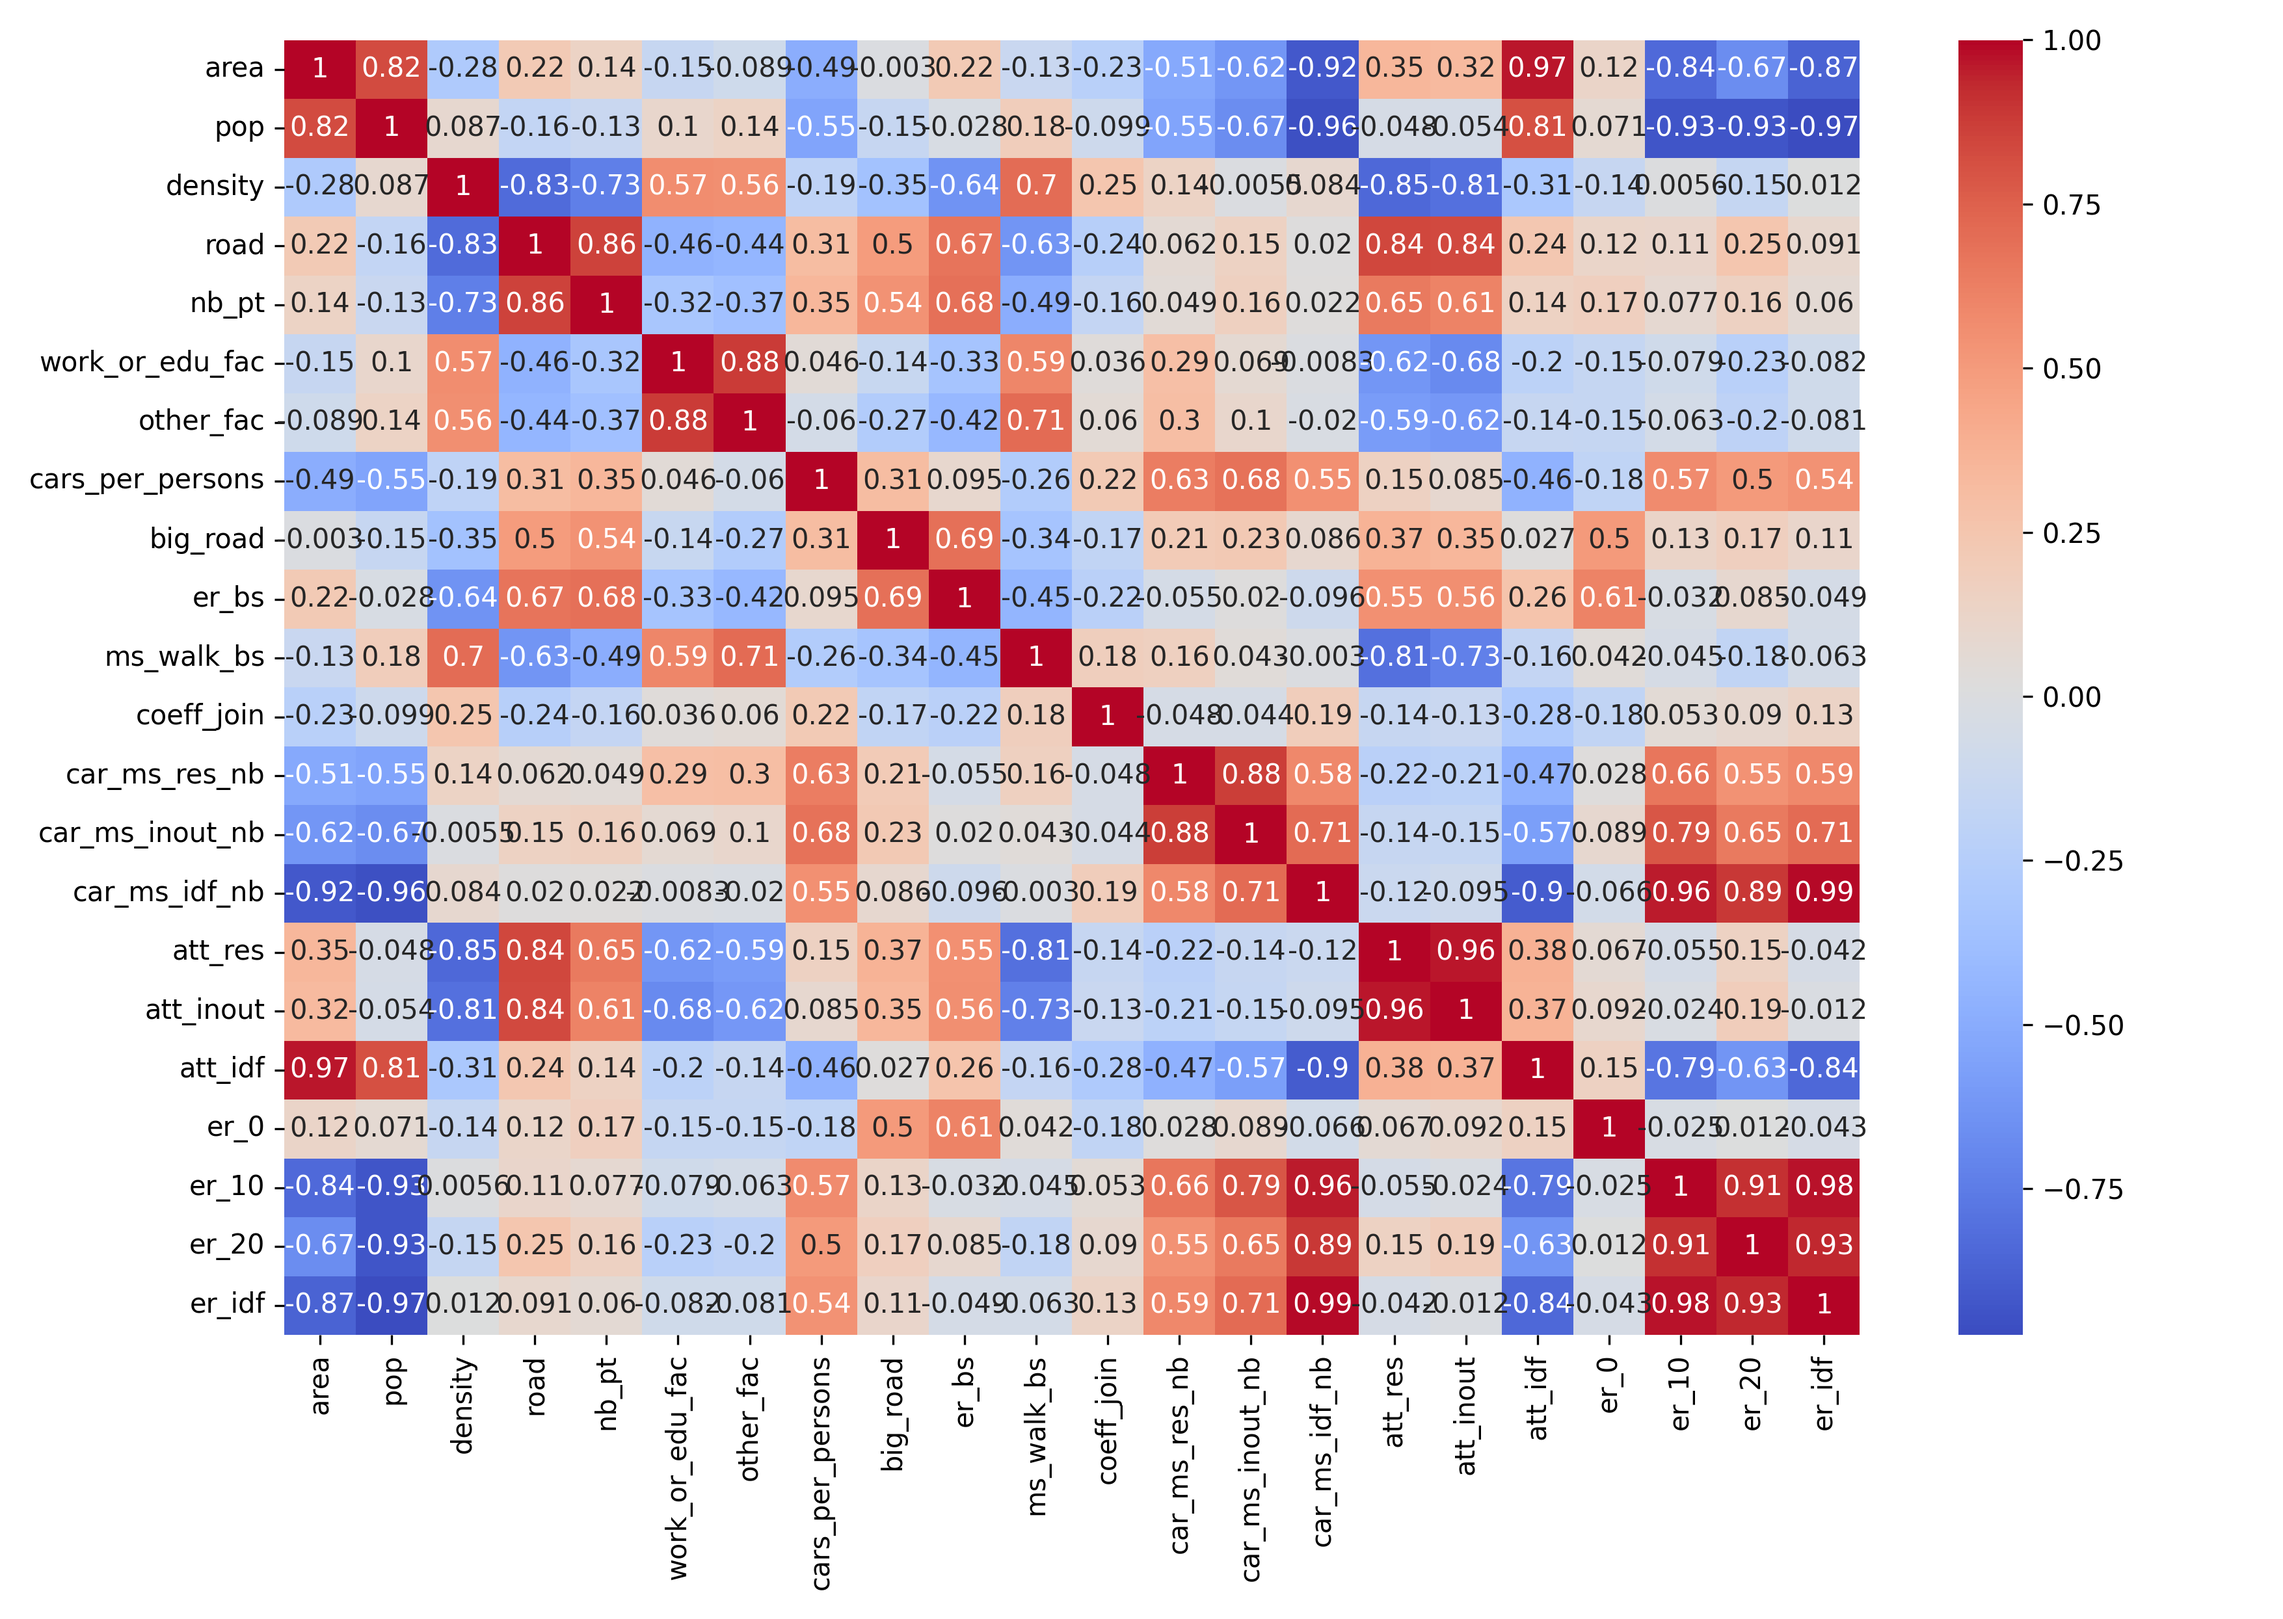
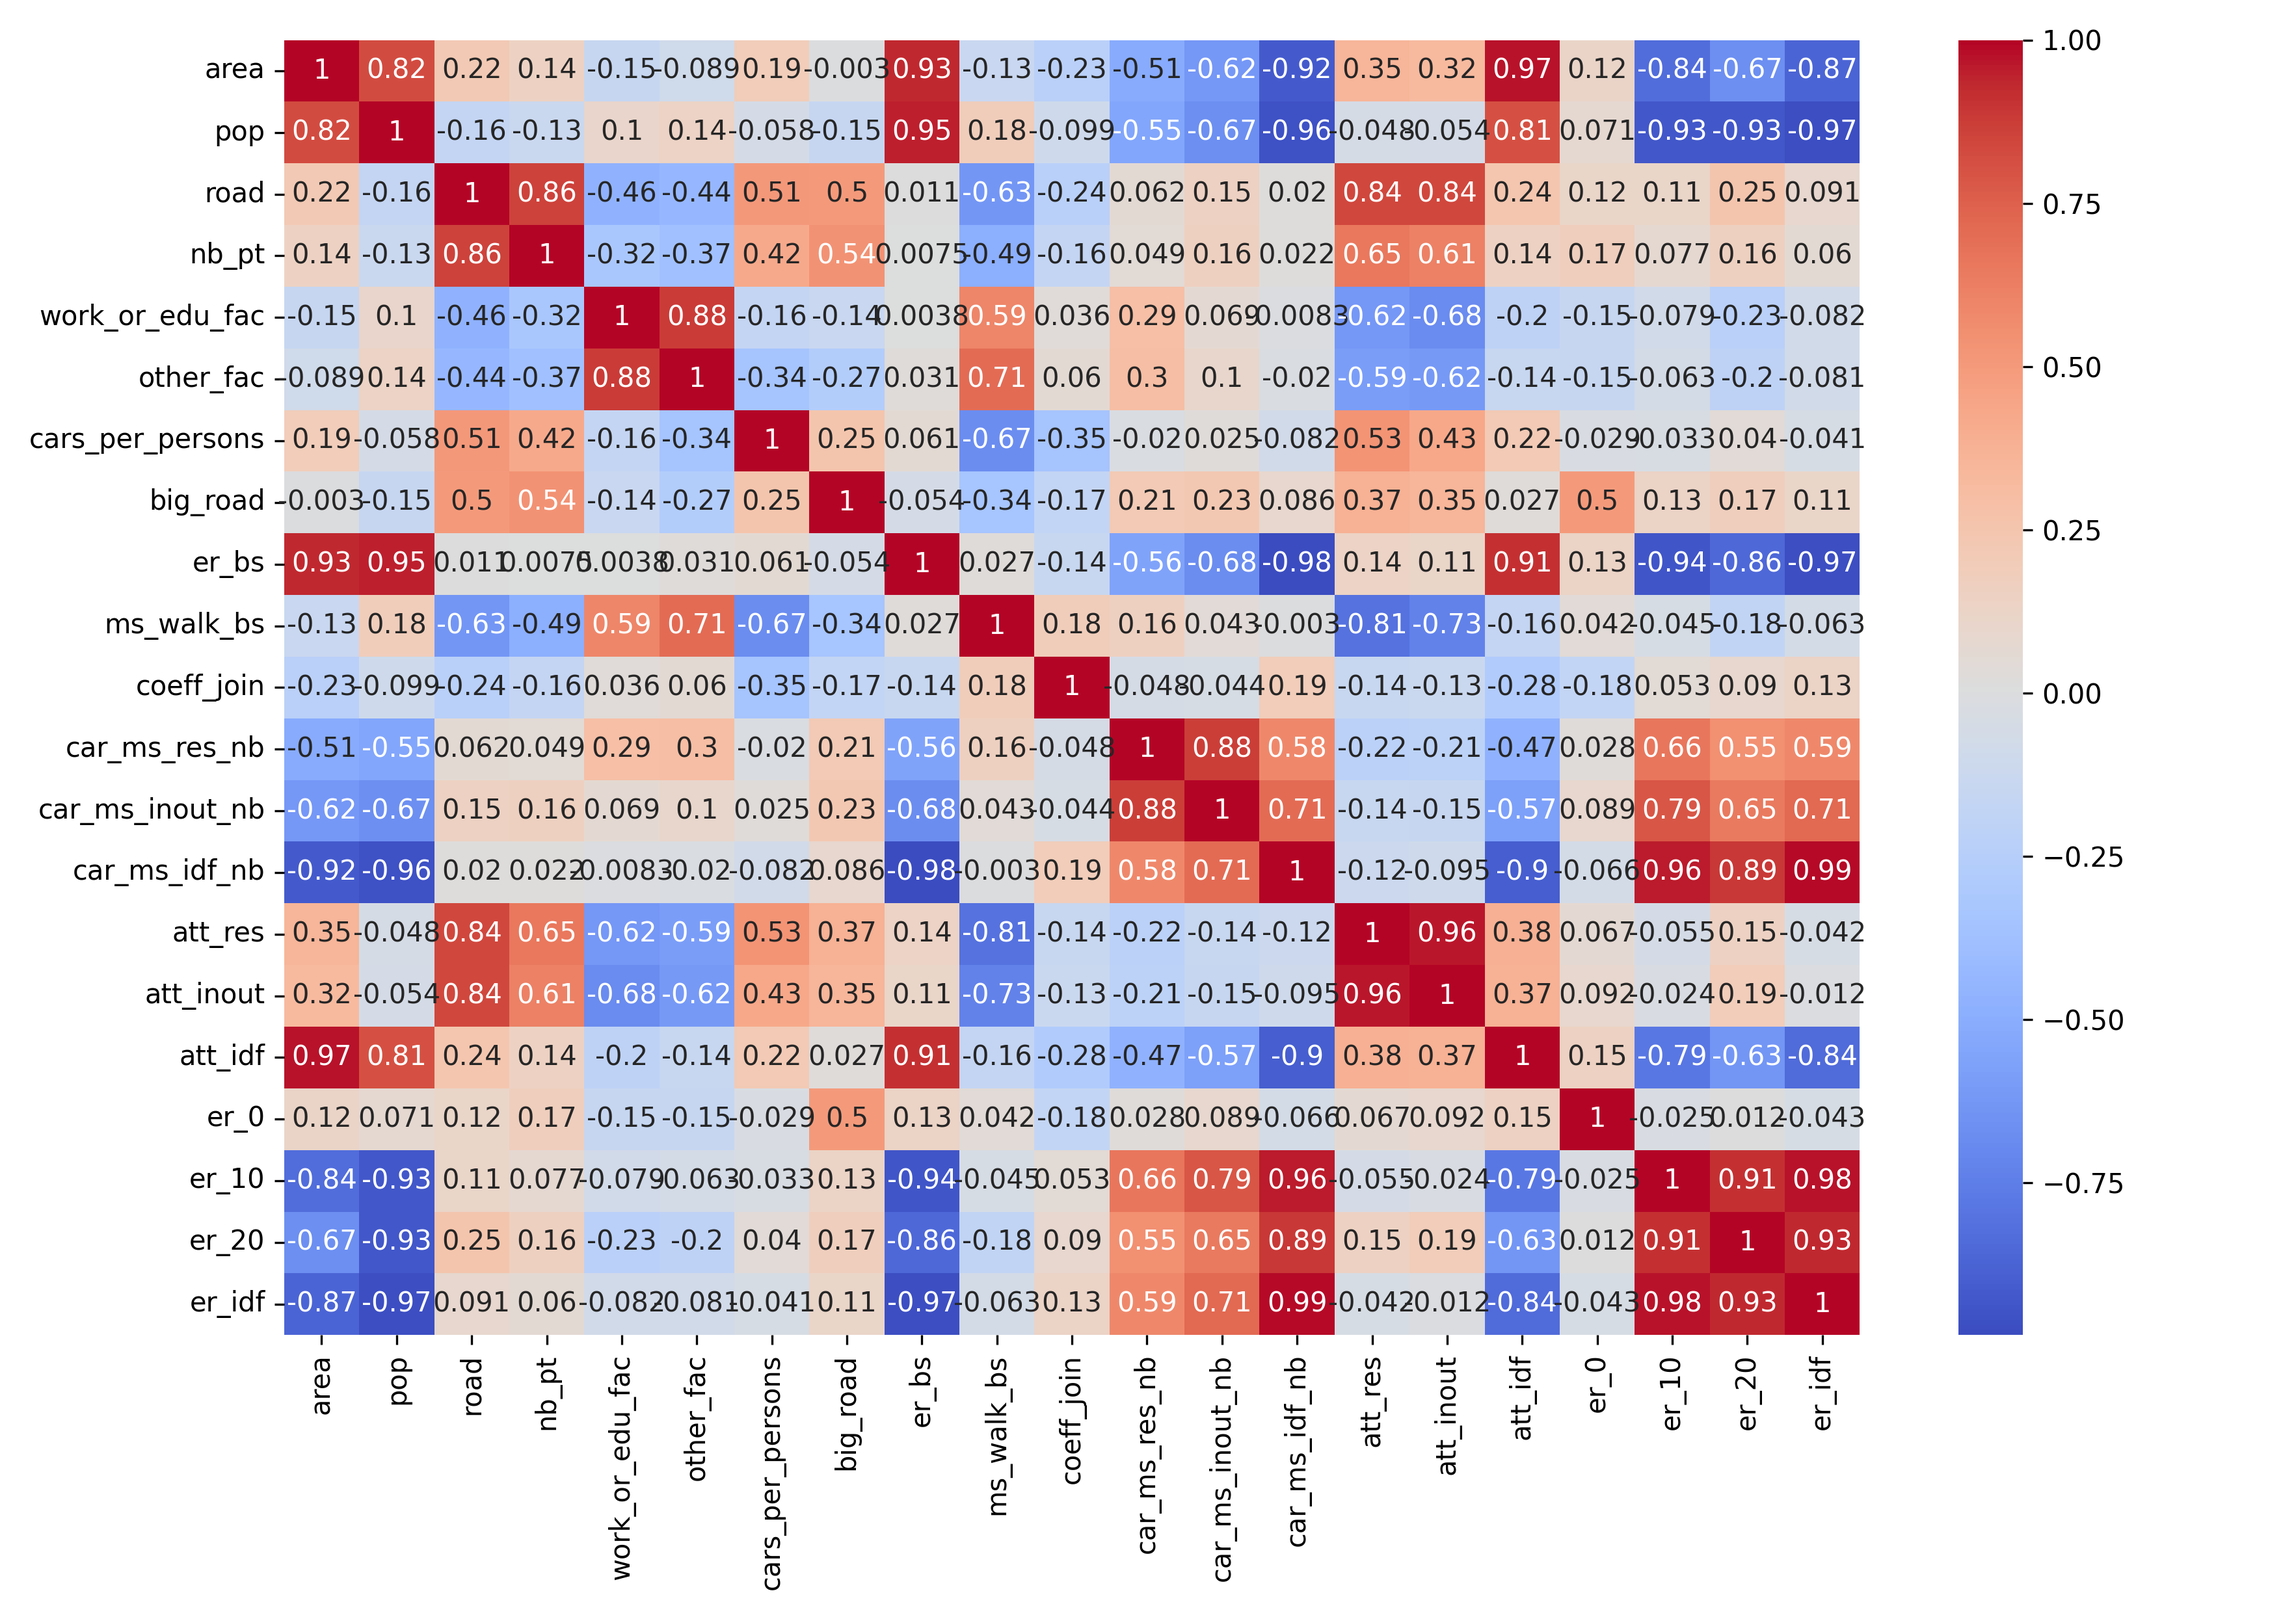
graphes div pop

diff --git a/python_files/get_graphes/graph_corr.py b/python_files/get_graphes/graph_corr.py
@@ -2,14 +2,15 @@ import attributes as attrib
 import matplotlib.pyplot as plt
 from graph_corr_alone import make_the_graph
 from math import ceil
+import os
 
-def make_graph_corr(feature = "er_idf", corpus = "data", x_or_y = "y", div_area = False):
+def make_graph_corr(feature = "er_idf", corpus = "data", x_or_y = "y", div = None):
     plt.clf()
     if feature in attrib.all_res :
         df_features = attrib.get_results()
     elif feature in attrib.all_data:
-        if div_area :
-            df_features = attrib.div_data_by_column()
+        if div != None :
+            df_features = attrib.div_data_by_column(col_div=div)
         else :
             df_features = attrib.get_data()
     else :
@@ -18,8 +19,8 @@ def make_graph_corr(feature = "er_idf", corpus = "data", x_or_y = "y", div_area 
     if corpus == "results" :
         df_corpus = attrib.get_results()
     elif corpus == "data" :
-        if div_area :
-            df_corpus = attrib.div_data_by_column()
+        if div != None :
+            df_corpus = attrib.div_data_by_column(col_div=div)
         else :
             df_corpus = attrib.get_data()
     else :
@@ -48,11 +49,16 @@ def make_graph_corr(feature = "er_idf", corpus = "data", x_or_y = "y", div_area 
                 exit()
             col_label = attrib.all_map[col]
             feature_label = attrib.all_map[feature]
-            if div_area :
-                if col in attrib.all_data :
-                    col_label = "Densité "+col_label
-                if feature in attrib.all_data :
-                    feature_label = "Densité "+feature_label
+            if div == "area" :
+                if (col in attrib.all_data) and (col not in attrib.base_skip) :
+                    col_label = "Densité " + col_label
+                if feature in attrib.all_data and (feature not in attrib.base_skip):
+                    feature_label = "Densité " + feature_label
+            if div == "pop" :
+                if col in attrib.all_data and (col not in attrib.base_skip):
+                    col_label = col_label + " par habitants"
+                if feature in attrib.all_data and (feature not in attrib.base_skip):
+                    feature_label = feature_label + " par habitants"
             if x_or_y == "y" :
                 plt.xlabel(col_label, fontsize = 6)
                 plt.ylabel(feature_label, fontsize = 6)
@@ -67,6 +73,8 @@ def make_graph_corr(feature = "er_idf", corpus = "data", x_or_y = "y", div_area 
     figure.set_size_inches(11.7,8.3)
     figure.legend()
     figure.tight_layout()
+    if not os.path.exists(attrib.graphes_folder):
+        os.makedirs(attrib.graphes_folder)
     if x_or_y == "y" :
         plt.savefig(attrib.graphes_folder+"\\"+feature+"_with_"+corpus,dpi = 300)
     else :
@@ -75,10 +83,10 @@ def make_graph_corr(feature = "er_idf", corpus = "data", x_or_y = "y", div_area 
 y_names = ["car_ms_res_nb","car_ms_inout_nb","car_ms_idf_nb","att_res","att_inout","att_idf","er_0","er_10","er_20","er_idf"]
 x_names = ["area","pop","road","nb_pt","work_or_edu_fac","other_fac","cars_per_persons","big_road","er_bs","ms_walk_bs","coeff_join"]
 for feature in x_names :
-    make_graph_corr(feature,"data","x",True)
-    make_graph_corr(feature,"results","x",True)
+    make_graph_corr(feature,"data","x","pop")
+    make_graph_corr(feature,"results","x","pop")
 for feature in y_names :
-    make_graph_corr(feature,"data","y",True)
-    make_graph_corr(feature,"results","y",True)
+    make_graph_corr(feature,"data","y","pop")
+    make_graph_corr(feature,"results","y","pop")
 
 

diff --git a/python_files/get_graphes/corr_matrix.py b/python_files/get_graphes/corr_matrix.py
@@ -3,29 +3,19 @@ import seaborn as sns
 import pandas as pd
 import attributes as attrib
 
-def matrix(only_data = True):
+def matrix(only_data = True, col_div = None):
     plt.clf()
-    df = pd.read_csv(attrib.data_file,sep=";")
-    df.drop(columns = ["insee"],inplace=True)
-    #df.drop(columns = ["density"],inplace=True)
-    new_df = pd.DataFrame()
-    col_div = "pop"
-    skip = ["area","density","cars_per_person","ms_walk_bs","coeff_join"]
-
-    for col in df.columns :
-        if (col != col_div) and (col not in skip) and (col_div != None):
-            temp = df[col]/df[col_div]
-            new_df[col] = temp
-        else :
-            new_df[col] = df[col]
+    if col_div != None :
+        new_df = attrib.div_data_by_column(col_div=col_div)
+    else : 
+        new_df = attrib.get_data()
     if not only_data :
         temp_df = pd.read_csv(attrib.results_file,sep=";")
         temp_df.drop(columns = ["insee"],inplace=True)
         for col in temp_df.columns :
             new_df[col] = temp_df[col]
-    print(new_df)
+    new_df.drop(columns=["insee"],inplace=True)
     matrix = new_df.corr()
-
     # plotting correlation matrix
     sns.heatmap(matrix, cmap="coolwarm", annot=True)
     figure = plt.gcf()
@@ -36,4 +26,4 @@ def matrix(only_data = True):
     else : 
         plt.savefig("python_files\\get_graphes\\mat_corr_div_"+col_div+".png",dpi = 300)
 
-matrix(False)
+matrix(False, col_div=None)

diff --git a/python_files/get_graphes/attributes.py b/python_files/get_graphes/attributes.py
@@ -10,7 +10,7 @@ nom_graphe = "Comparative modal shares for 93032 DRZ"
 results_file = "python_files\\get_data\\res_drz.csv"
 data_file = "python_files\\get_data\\data_drz.csv"
 corpus_folder = "python_files\\models\\corpus"
-graphes_folder = "python_files\\get_graphes\\graphes"
+graphes_folder = "python_files\\get_graphes\\div_pop_graphes"
 all_data = ["area","pop","density","road","nb_pt","work_or_edu_fac","other_fac","cars_per_persons","big_road","er_bs","ms_walk_bs","coeff_join"]
 all_res = ["car_ms_res_nb","car_ms_inout_nb","car_ms_idf_nb","att_res","att_inout","att_idf","er_0","er_10","er_20","er_idf"]
 dict_size_path = "python_files\\models\\info_insees\\dict_size.json"
@@ -21,7 +21,9 @@ def get_data():
 def get_results():
     return pd.read_csv(results_file,sep=";")
 
-def div_data_by_column(df = get_data(), to_drop = ["density"], col_div = "area", skip = ["insee","density","cars_per_persons","ms_walk_bs","coeff_join"]):
+base_skip = ["area", "population", "insee","density","cars_per_persons","ms_walk_bs","coeff_join","er_bs"]
+
+def div_data_by_column(df = get_data(), to_drop = ["density"], col_div = "area", skip = base_skip):
     for col in to_drop :
         if col in df.columns :
             df.drop(columns = [col],inplace=True)

diff --git a/python_files/get_graphes/graph_corr_alone.py b/python_files/get_graphes/graph_corr_alone.py
@@ -1,6 +1,7 @@
 import attributes as attrib
 import matplotlib.pyplot as plt
 from math import ceil
+import os
 import json
 
 def make_graph_corr(x = "area", y = "er_idf", j_or_dj_is = False, size_is = False):
@@ -38,6 +39,8 @@ def make_graph_corr(x = "area", y = "er_idf", j_or_dj_is = False, size_is = Fals
         file_path += "_jdj"
     
     #plt.axline((1, -2), (4, -15), color = "black" )
+    if not os.path.exists(attrib.graphes_folder):
+        os.makedirs(attrib.graphes_folder)
     plt.savefig(file_path,dpi = 300)
 
 def make_the_graph(x, y, j_or_dj_is, size_is, df_x, df_y, legend = True):
@@ -94,4 +97,4 @@ def make_the_graph(x, y, j_or_dj_is, size_is, df_x, df_y, legend = True):
                 plt.scatter(X,Y,marker=signs[j_or_dj],c = colors[size],label = label)
     
     
-make_graph_corr(x = "density", y = "att_res", size_is=True, j_or_dj_is=True)
+#make_graph_corr(x = "density", y = "att_res", size_is=True, j_or_dj_is=True)

diff --git a/python_files/get_graphes/README.md b/python_files/get_graphes/README.md
@@ -22,9 +22,11 @@ Certains graphes n'ont pas de légende par manque de place.
 
 Tout les graphes partagent la même légende et elle peut donc être trouvée sur d'autres graphes.
 
-### div_area_graphes
+### div_area_graphes et div_pop_graphes
 
 Le dossier div_area_graphes contient les même graphes que all_graphes sauf que la plupart des entrées ont été remplacées par leur densité.
+
+Le dossier div_pop_graphes contient les même graphes que all_graphes sauf que la plupart des entrées ont été remplacées par leur valeur par habitants.
 
 ## Analyses sur les graphes
 
@@ -54,6 +56,7 @@ Elles sont maintenant corrélées au gain du temps de trajet moyen.
 
 Les autres relations semblent rester les mêmes même si elles sont parfois accentuées.
 
+Il pourrait être intéressant de réentraîner les modèles avec les entrées en densité.
 
 ### Matrice de corrélation avec certaines entrées divisées par la population
 
@@ -65,11 +68,13 @@ Les entrées sont beaucoup moins corrélées entre elles et chaque sortie est cl
 
 Il pourrait être intéressant de réentraîner les modèles avec les entrées en valeur par habitants.
 
+Si in rénetraîne la régression linéaire par exemple, on a une meilleure MAE et un meilleure R2 sur les entraînement avec tout le corpus.
+
 ## Graphes de relations entre les entrées et sorties
 
 ### Gain d'émissions de CO2 sur l'île de France en fonction du gain de temps de trajet moyen sur l'île de France
 
-![Graphe CO2 en fonction de att](./graph_corr_er_idf_with_att_idf_size_and_jdj.png)
+![Graphe CO2 en fonction de att](./graphes_readme/graph_corr_er_idf_with_att_idf_size_and_jdj.png)
 
 Ce graphe nous permet de calculer le coût qu'a la réduction des émissions et semble montrer qu'il existe un optimum à viser (ligne noire).
 
@@ -77,7 +82,7 @@ L'optimum à été dessiné à la main, son équation est y = 7/3 + (13/3)*x.
 
 ### Gain d'émissions de CO2 sur l'île de France en fonction de l'aire de la DRZ
 
-![Graphe CO2 en fonction de att](./graph_corr_er_idf_with_area_size_and_jdj.png)
+![Graphe CO2 en fonction de att](./graphes_readme/graph_corr_er_idf_with_area_size_and_jdj.png)
 
 On peut voir qu'il y a une relation entre l'aire de la DRZ et le gain d'émissions de CO2 en île de France. Cette relation confirme ce que l'on a observé sur la matrice de corrélation.
 
@@ -86,10 +91,8 @@ Néanmoins ce gain n'est pas strictement linéaire, pour une même aire il y a p
 ### Gain du temps de trajet moyen pour les résidents et les non-résidents en fonction de la densité de la DRZ
 
 Ci-dessous le graphe du gain du temps de trajet moyen pour les résidents en fonction de la densité de la DRZ
-![Graphe att_res en fonction de densité](./graph_corr_att_res_with_density_size_and_jdj.png)
+![Graphe att_res en fonction de densité](./graphes_readme/graph_corr_att_res_with_density_size_and_jdj.png)
 
-On peut voir qu'il y a une relation entre l'aire de la DRZ et le gain d'émissions de CO2 en île de France. Cette relation confirme ce que l'on a observé sur la matrice de corrélation.
+On peut voir qu'il y a une relation entre temps de trajet moyen pour les résidents et la densité de la DRZ. Cette relation confirme ce que l'on a observé sur la matrice de corrélation.
 
-Néanmoins ce gain n'est pas strictement linéaire, pour une même aire il y a plusieurs gains d'émissions possibles.
-python_files\get_graphes\graph_corr_att_res_with_density_size_and_jdj.png
-
+Cette relation n'a pas l'air linéaire mais plutôt hyperbolique, cela confirme que chaque sortiie peut avoir des relations de nature différente avec les entrées et donc qu'il pourrait être intéressant d'entraîner un modèle différent pour chaque sortie.
